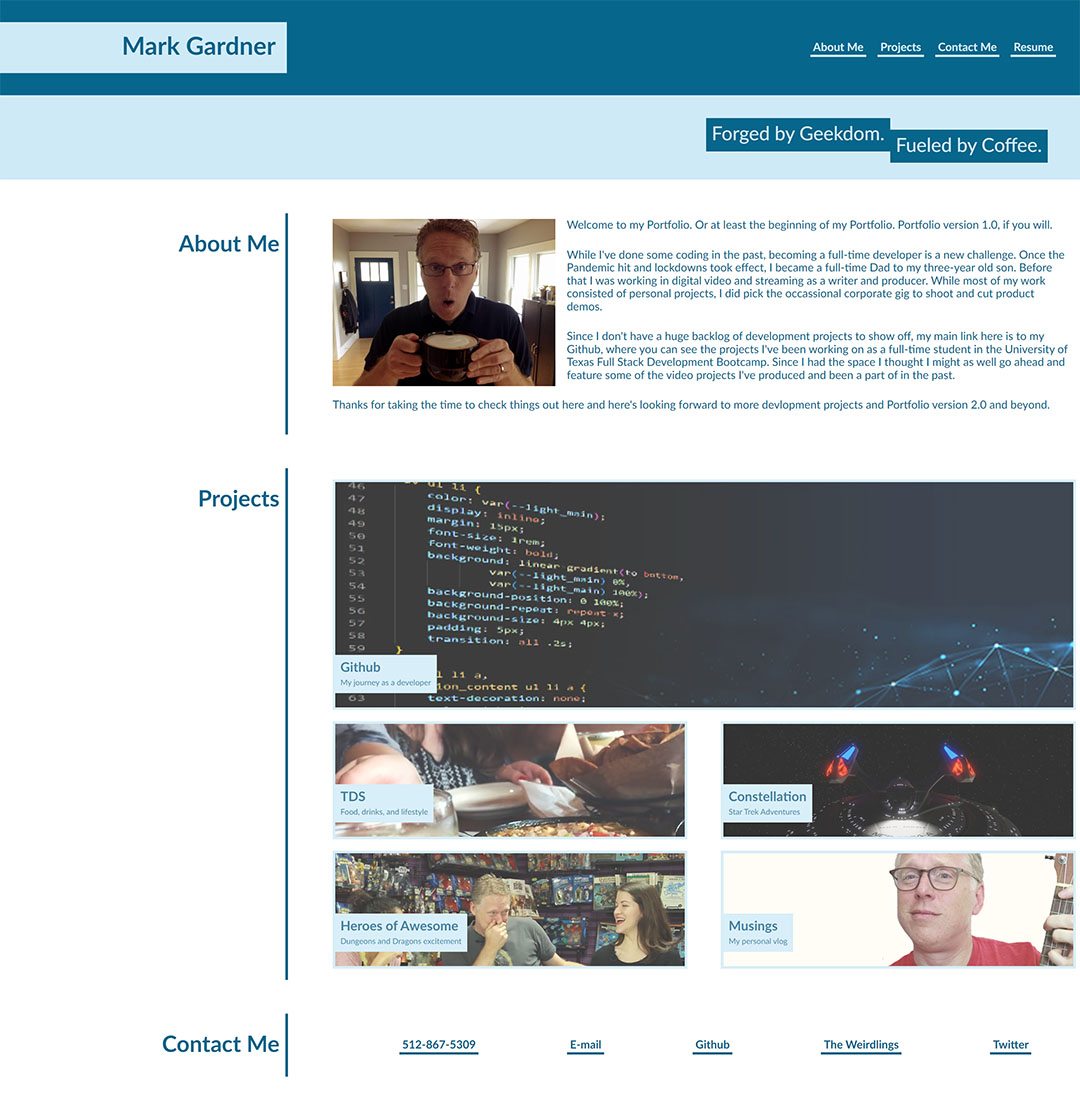
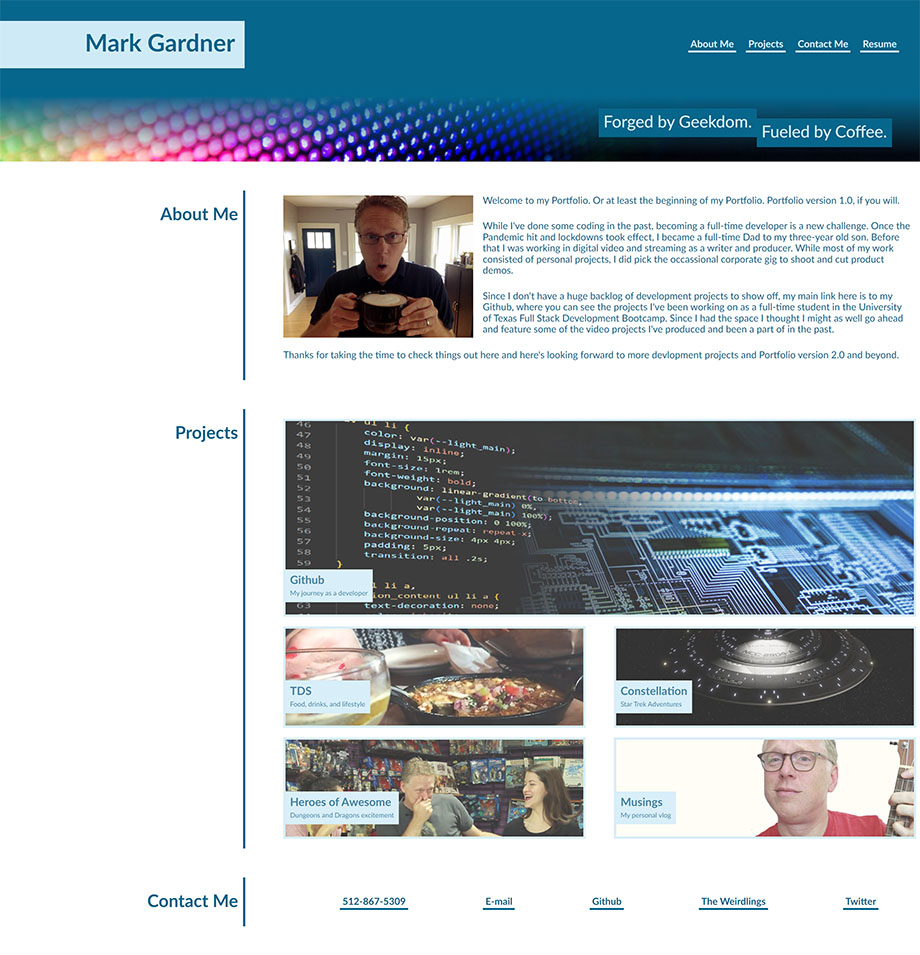
Changed the screenshot to reflect latest changes. Also increased padding-right for section_title to add more white space.

diff --git a/assets/css/styles.css b/assets/css/styles.css
@@ -239,7 +239,7 @@ p {
     width: 25%;
     border-right: 5px solid var(--dark_main);
     color: var(--dark_main);
-    padding-right: 10px;
+    padding-right: 25px;
 }
 
 /* changes the opacity of the bg image in the work section */

diff --git a/README.md b/README.md
@@ -27,6 +27,8 @@ Since my previous work was in digital video production, I decided to go ahead an
 
 The brief for the assignment included a punchy tagline in the hero section. I had been wanting to design a shirt with the short two sentence tagline "Forged by Geekdom. Fueled by Coffee." since one of our community members suggested it for t-shirts a few years ago. It seemed fitting here so I decided to adapt it for this project. I did want to add a little character to it so I used Flexbox justifications and alignments to offset the headers and create the stacking box effect. That took some time to make consistent at all the responsive sizes.
 
+For the image directly underneath the header section, I didn't like the look for just the plain image but I wanted a pop of color against the relatively simple color palette. So to help unify the look I layered a transparent gradient over the image so that the two worked together seamlessly. In the same vein, the pure white background felt too harsh, so I added a slight blue tint to the light background to soften the overall effect. That's also contained in a variable so the entire color scheme can be changed with just a few code switches.
+
 I also took the time to add `transition` attributes to most the elements that would change in order to smooth the transitions from smaller to larger sizes, and vice-versa.
 
 
